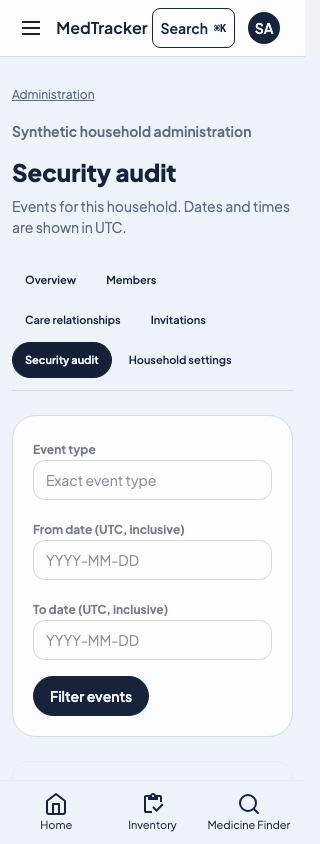
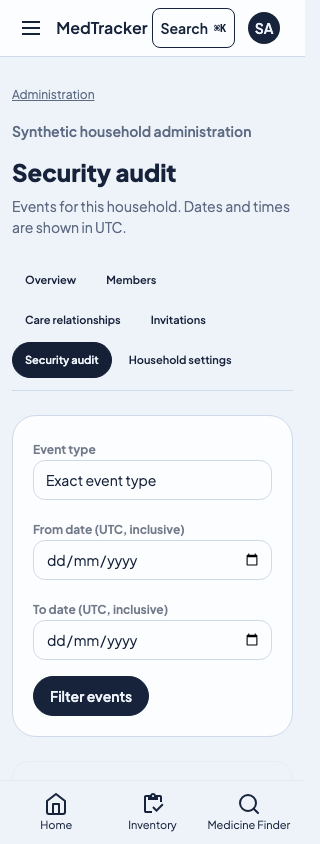
fix: improve security audit filters (#3055)
* fix: improve security audit filters

* fix: preserve invalid audit filter dates

diff --git a/assets/views/administration/audit_logs/index.html b/assets/views/administration/audit_logs/index.html
@@ -12,15 +12,19 @@
     {% if language_suffix != "" %}<input type="hidden" name="lang" value="{{ lang }}">{% endif %}
     <div>
       <label class="label" for="audit-event-type">{{ admin_labels.audit.event_type }}</label>
-      <input class="input input-bordered w-full" id="audit-event-type" name="event_type" value="{{ filters.event_type }}" placeholder="{{ admin_labels.audit.event_type_placeholder }}" {% if invalid_field == 'audit-event-type' %}aria-invalid="true" aria-describedby="form-error-audit-event-type"{% endif %}>
+      <select class="select select-bordered w-full" id="audit-event-type" name="event_type" {% if invalid_field == 'audit-event-type' %}aria-invalid="true" aria-describedby="form-error-audit-event-type"{% endif %}>
+        <option value="">{{ admin_labels.audit.event_type_placeholder }}</option>
+        {% if filters.event_type != "" and filters.event_type not in event_types %}<option value="{{ filters.event_type }}" selected>{{ filters.event_type }}</option>{% endif %}
+        {% for event_type in event_types %}<option value="{{ event_type }}" {% if event_type == filters.event_type %}selected{% endif %}>{{ event_type }}</option>{% endfor %}
+      </select>
     </div>
     <div>
       <label class="label" for="audit-from">{{ admin_labels.audit.from }}</label>
-      <input class="input input-bordered w-full" id="audit-from" name="from" type="text" placeholder="YYYY-MM-DD" value="{{ filters.from_utc }}" {% if invalid_field == 'audit-from' %}aria-invalid="true" aria-describedby="form-error-audit-from"{% endif %}>
+      <input class="input input-bordered w-full" id="audit-from" name="from" type="{% if invalid_draft %}text{% else %}date{% endif %}" {% if invalid_draft %}placeholder="YYYY-MM-DD"{% endif %} value="{{ filters.from_utc }}" {% if invalid_field == 'audit-from' %}aria-invalid="true" aria-describedby="form-error-audit-from"{% endif %}>
     </div>
     <div>
       <label class="label" for="audit-to">{{ admin_labels.audit.to }}</label>
-      <input class="input input-bordered w-full" id="audit-to" name="to" type="text" placeholder="YYYY-MM-DD" value="{{ filters.through_utc }}" {% if invalid_field == 'audit-to' %}aria-invalid="true" aria-describedby="form-error-audit-to"{% endif %}>
+      <input class="input input-bordered w-full" id="audit-to" name="to" type="{% if invalid_draft %}text{% else %}date{% endif %}" {% if invalid_draft %}placeholder="YYYY-MM-DD"{% endif %} value="{{ filters.through_utc }}" {% if invalid_field == 'audit-to' %}aria-invalid="true" aria-describedby="form-error-audit-to"{% endif %}>
     </div>
     <div class="sm:col-span-3"><button class="btn btn-neutral" type="submit">{{ admin_labels.audit.filter }}</button></div>
   </form>

diff --git a/tests/care_api/audit_logs_browser.rs b/tests/care_api/audit_logs_browser.rs
@@ -576,6 +576,10 @@ async fn audit_browser_filters_and_pages_stable_tied_events() -> Result<(), Box<
             .header("cookie", &cookie).send().await?;
         let date_only_status = date_only.status();
         let date_only_body = date_only.text().await?;
+        let document = scraper::Html::parse_document(&date_only_body);
+        for selector in ["select#audit-event-type option[value='api.request']", "input#audit-from[type='date']", "input#audit-to[type='date']"] {
+            assert!(document.select(&scraper::Selector::parse(selector).unwrap()).next().is_some(), "missing filter control: {selector}");
+        }
         let first = app.client.get(format!("{}/households/{fixture_slug}/admin/audit_logs?event_type=api.request&from=2030-01-15&to=2030-01-15", app.origin))
             .header("cookie", &cookie).send().await?;
         let first_status = first.status();
@@ -765,6 +769,16 @@ async fn audit_browser_retains_invalid_filter_drafts_after_authorization()
     assert_eq!(date_cache.as_deref(), Some("no-store"));
     assert!(date_body.contains("value=\"api.request\""));
     assert!(date_body.contains("value=\"2030-02-30\""));
+    let date_document = scraper::Html::parse_document(&date_body);
+    assert!(
+        date_document
+            .select(
+                &scraper::Selector::parse("input#audit-from[type='text'][value='2030-02-30']")
+                    .unwrap()
+            )
+            .next()
+            .is_some()
+    );
     assert!(date_body.contains("form-error-audit-from"));
     assert_eq!(anonymous_status, reqwest::StatusCode::SEE_OTHER);
     assert_eq!(anonymous_cache.as_deref(), Some("no-store"));

diff --git a/src/controllers/administration/audit_logs.rs b/src/controllers/administration/audit_logs.rs
@@ -132,12 +132,14 @@ async fn data(
     data["household_name"] = json!(&household_name);
     data["admin_section"] = json!("audit");
     data["invalid_field"] = json!("");
+    data["invalid_draft"] = json!(false);
     let audit_title = labels["administration"]["audit"]["title"]
         .as_str()
         .ok_or(OperationError::Unavailable)?;
     let mut error = None;
     let template = match screen {
         Screen::List(filter) => {
+            data["event_types"] = json!(administration::audit_logs::event_types(tenant).await?);
             let page = administration::audit_logs::browse(tenant, &filter).await?;
             let rows = summaries(&page.rows, &labels, language)?;
             data["title"] = json!(format!("{household_name} · {audit_title}"));
@@ -153,6 +155,8 @@ async fn data(
             "administration/audit_logs/index.html"
         }
         Screen::Invalid(draft, validation) => {
+            data["event_types"] = json!(administration::audit_logs::event_types(tenant).await?);
+            data["invalid_draft"] = json!(true);
             data["title"] = json!(format!("{household_name} · {audit_title}"));
             data["next_url"] = Value::Null;
             data["filters"] = json!(draft);

diff --git a/src/models/care/administration/audit_logs.rs b/src/models/care/administration/audit_logs.rs
@@ -288,6 +288,19 @@ async fn authorize_browse(tenant: &TenantTransaction) -> Result<(), OperationErr
     Ok(())
 }
 
+pub async fn event_types(tenant: &TenantTransaction) -> Result<Vec<String>, OperationError> {
+    authorize_browse(tenant).await?;
+    Ok(security_audit_event::Entity::find()
+        .select_only()
+        .column(security_audit_event::Column::EventType)
+        .distinct()
+        .filter(security_audit_event::Column::HouseholdId.eq(tenant.scope().household_id))
+        .order_by_asc(security_audit_event::Column::EventType)
+        .into_tuple::<String>()
+        .all(tenant.transaction())
+        .await?)
+}
+
 pub async fn browse(
     tenant: &TenantTransaction,
     filter: &BrowseFilter,
